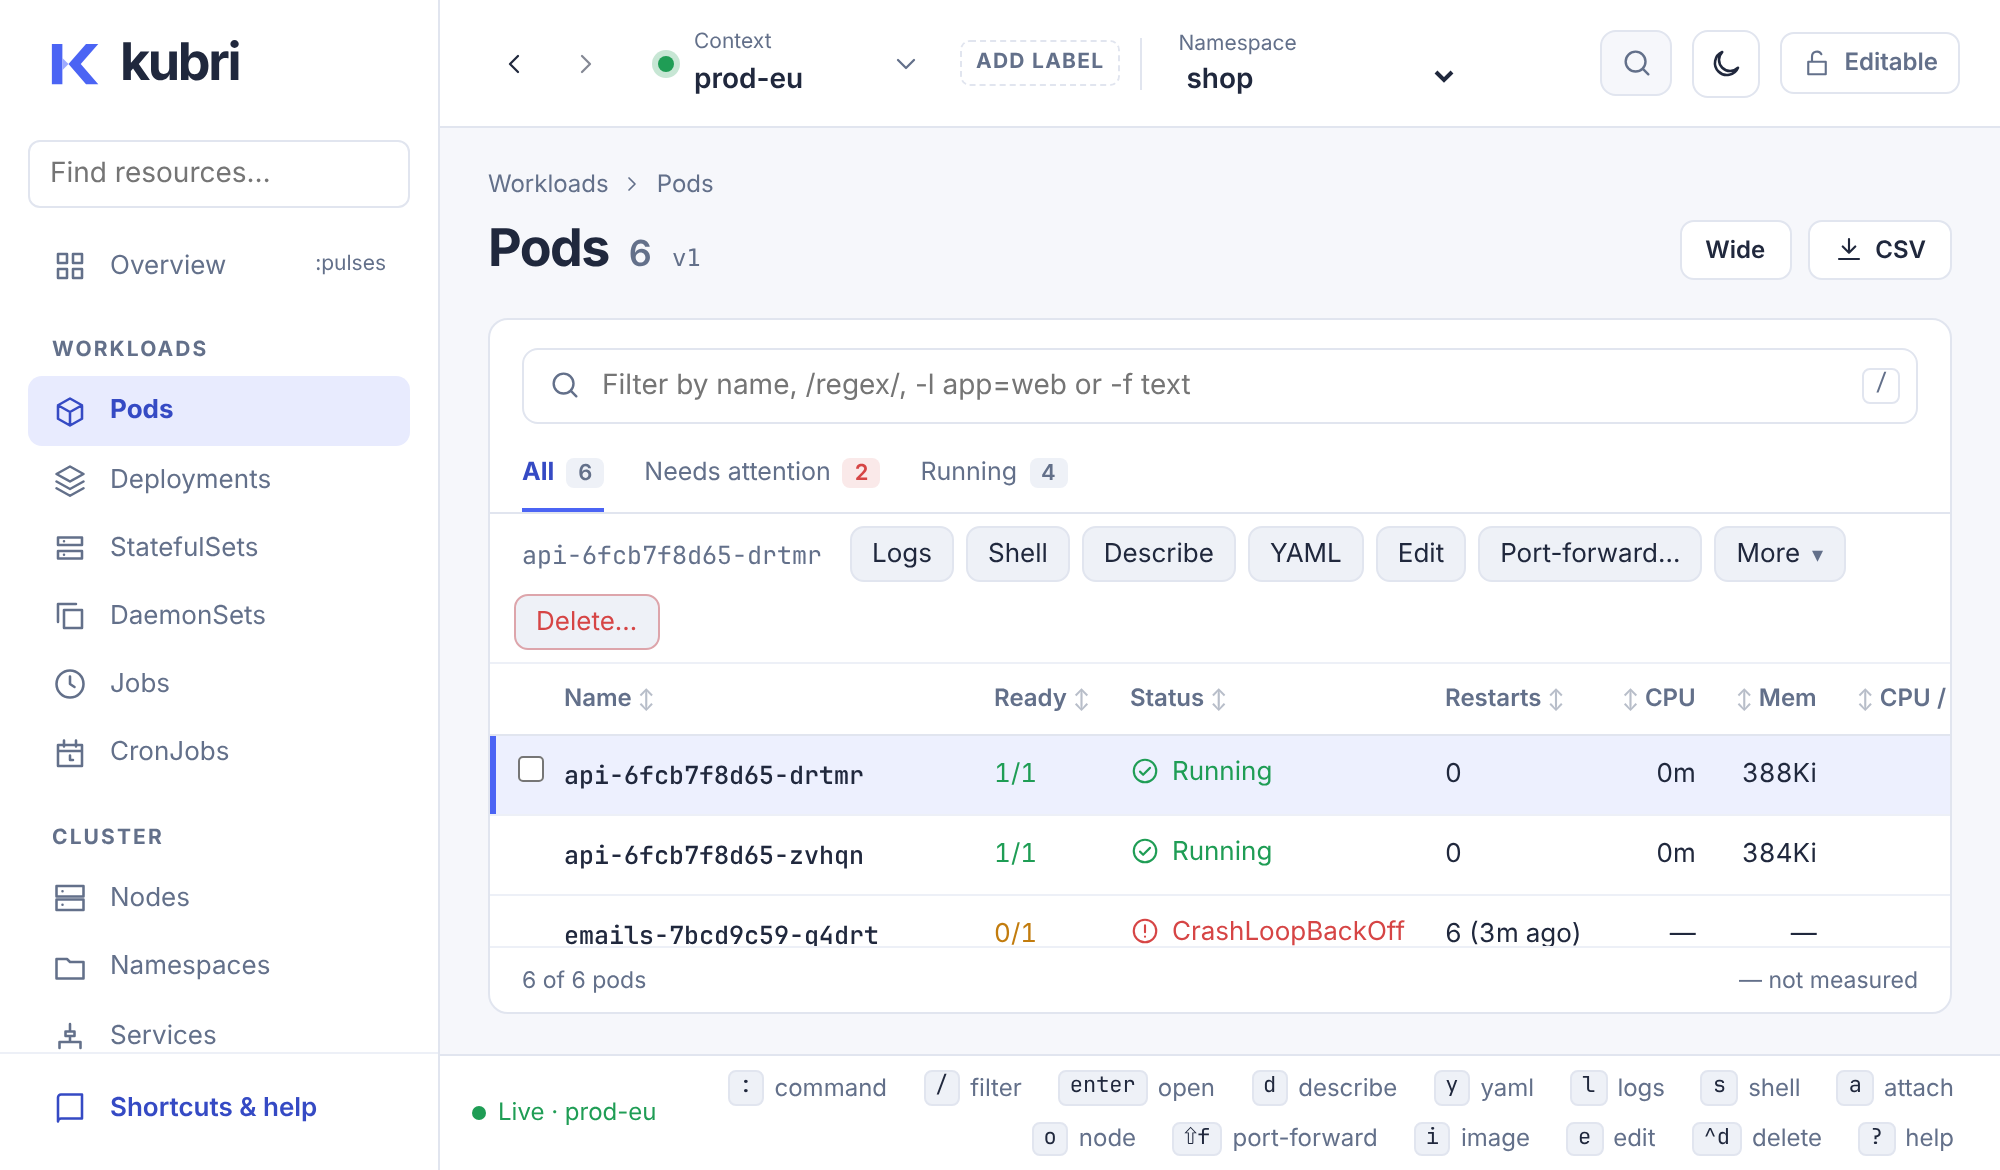
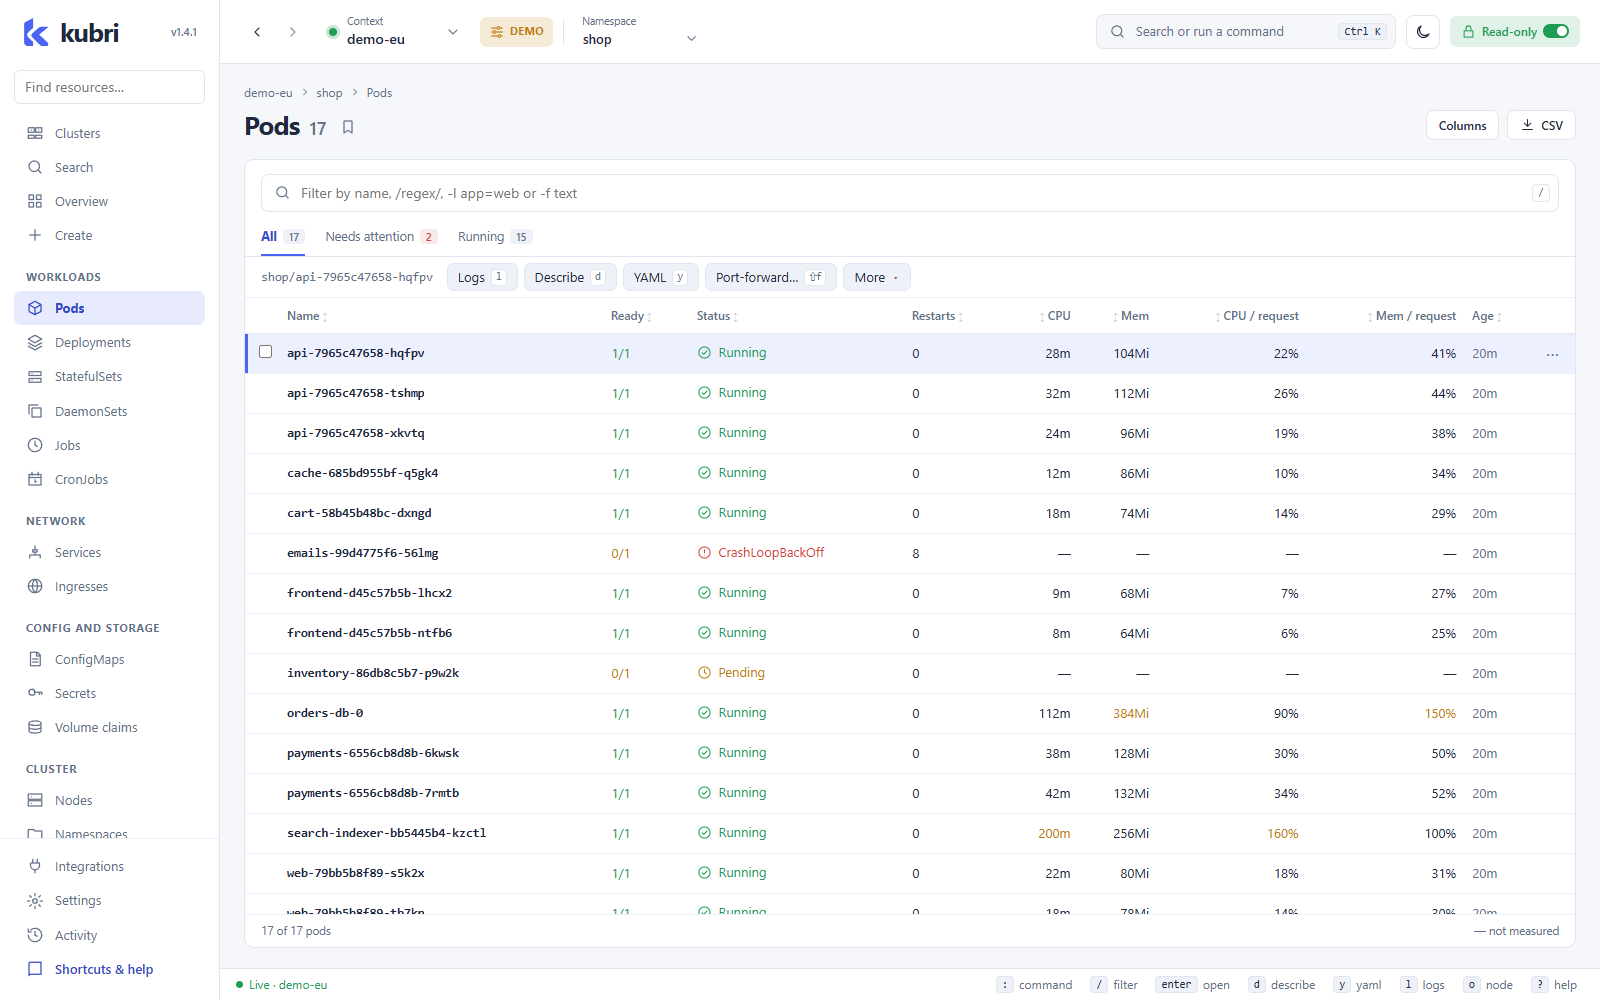
Capture v1.4.1 README screenshots against current UI

diff --git a/docs/SCREENSHOTS.md b/docs/SCREENSHOTS.md
@@ -28,6 +28,6 @@ node scripts/capture-readme.cjs /path/to/playwright /path/to/browser http://127.
 
 The existing structured-log and other feature screenshots are preserved; previous-container logs are captured separately as `logs-previous.png`.
 
-All API requests and WebSockets are intercepted inside the isolated browser context. Screenshots are captured through the real application controls. The script rejects mutation attempts and fails on browser JavaScript errors.
+All API requests and WebSockets are intercepted inside the isolated browser context. Screenshots are captured through the real application controls. The script mocks startup port-forward restoration and read-only POST queries, rejects cluster mutation attempts and fails on browser JavaScript errors.
 
 Version labels come from `ui/package.json`; regenerate the screenshots after a version or branding change. Keep both `pods-light.png` and `pods-dark.png`, as the README chooses its main image using the reader's color preference.
